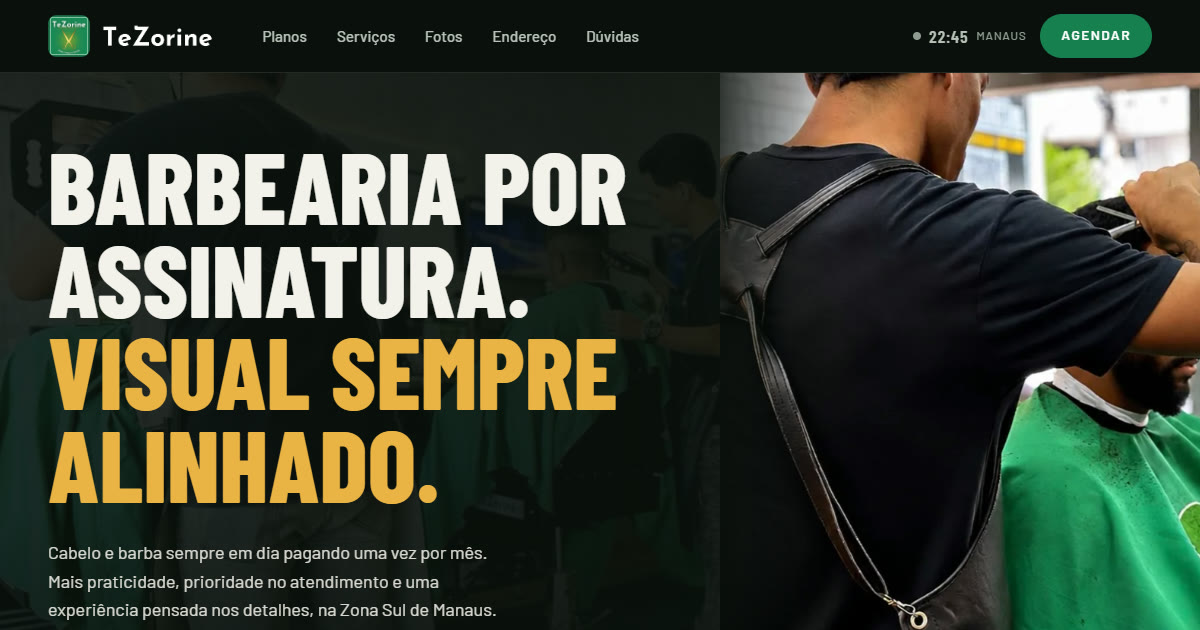
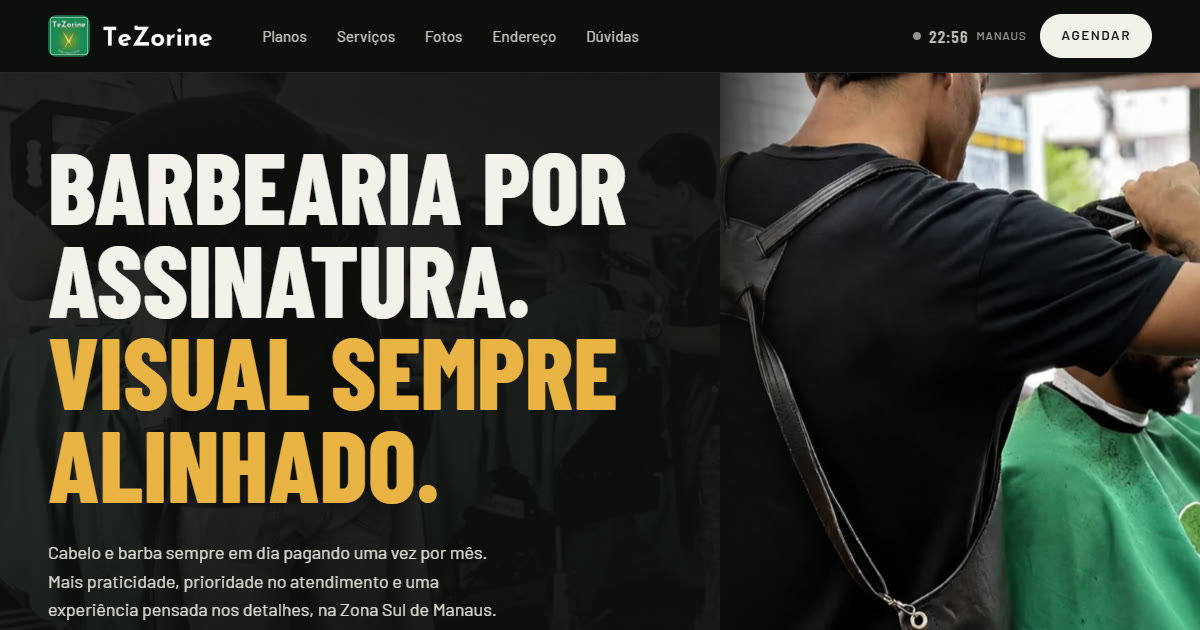
Verde mais discreto: fundo neutro, botões claros, fotos menos saturadas

diff --git a/index.html b/index.html
@@ -6,7 +6,7 @@
 <title>Barbearia Tezorine | Barbearia por assinatura em Manaus</title>
 <meta name="description" content="Barbearia Tezorine, barbearia por assinatura na Zona Sul de Manaus. Planos de corte, barba e corte e barba, sem fidelidade. Av. Silves, 1041, Raiz. Segunda a sábado, das 9h30 às 20h.">
 <meta name="robots" content="noindex">
-<meta name="theme-color" content="#0A100C">
+<meta name="theme-color" content="#0D0E0D">
 <meta property="og:type" content="website">
 <meta property="og:locale" content="pt_BR">
 <meta property="og:title" content="Barbearia Tezorine · Barbearia por assinatura em Manaus">
@@ -28,13 +28,13 @@
    Barlow Condensed = títulos e números (como o "BARBEARIA" dos posts); Barlow = texto e botões. */
 :root{
   color-scheme:dark;
-  --chao:#0A100C;          /* fundo: preto esverdeado */
-  --chao-2:#0F1712;        /* faixa alternada */
-  --placa:#142019;         /* superfícies */
-  --placa-2:#1B2B22;
+  --chao:#0D0E0D;          /* fundo: preto neutro */
+  --chao-2:#141614;        /* faixa alternada */
+  --placa:#1A1C1A;         /* superfícies */
+  --placa-2:#232623;
   --osso:#F3F1EA;          /* texto */
-  --osso-2:#B9C2BA;        /* texto de apoio (9:1) */
-  --osso-3:#8F9A91;        /* rótulos (6:1) */
+  --osso-2:#BDBFB9;        /* texto de apoio (9:1) */
+  --osso-3:#93968F;        /* rótulos (6:1) */
   --linha:rgba(243,241,234,.11);
   --linha-forte:rgba(243,241,234,.26);
   --verde:#17804F;         /* verde da logo, um pouco mais fundo para o texto branco ler (4,9:1) */
@@ -61,10 +61,10 @@
 }
 *,*::before,*::after{box-sizing:border-box}
 [hidden]{display:none!important}
-html{scroll-behavior:smooth;scroll-padding-top:calc(var(--topo) + 12px);-webkit-text-size-adjust:100%;scrollbar-color:#2C3A31 var(--chao)}
+html{scroll-behavior:smooth;scroll-padding-top:calc(var(--topo) + 12px);-webkit-text-size-adjust:100%;scrollbar-color:#2E302E var(--chao)}
 @media (prefers-reduced-motion:reduce){html{scroll-behavior:auto}*,*::before,*::after{animation:none!important;transition:none!important}}
 body{margin:0;background:var(--chao);color:var(--osso);font:400 1.0625rem/1.6 var(--f-texto);-webkit-font-smoothing:antialiased;-webkit-tap-highlight-color:transparent}
-::selection{background:var(--verde-2);color:#fff}
+::selection{background:var(--ouro);color:var(--sobre-ouro)}
 :focus-visible{outline:2px solid var(--ouro);outline-offset:3px}
 img{max-width:100%;height:auto;display:block}
 a{color:inherit}
@@ -89,8 +89,8 @@ figure,blockquote{margin:0}
 .selo-ex::before{content:"";width:6px;height:6px;border-radius:50%;background:currentColor}
 
 /* ---------- botões ---------- */
-.btn{display:inline-flex;align-items:center;justify-content:center;gap:10px;min-height:52px;padding:14px 24px;border:1px solid transparent;border-radius:999px;background:var(--verde);color:var(--sobre-verde);font:600 .84rem/1.15 var(--f-texto);letter-spacing:.12em;text-transform:uppercase;text-decoration:none;text-align:center;cursor:pointer;transition:background-color .2s ease,border-color .2s ease,color .2s ease,transform .2s cubic-bezier(.2,.8,.2,1),translate .35s cubic-bezier(.2,.8,.2,1)}
-.btn:hover{background:var(--verde-2)}
+.btn{display:inline-flex;align-items:center;justify-content:center;gap:10px;min-height:52px;padding:14px 24px;border:1px solid transparent;border-radius:999px;background:var(--osso);color:var(--tinta);font:600 .84rem/1.15 var(--f-texto);letter-spacing:.12em;text-transform:uppercase;text-decoration:none;text-align:center;cursor:pointer;transition:background-color .2s ease,border-color .2s ease,color .2s ease,transform .2s cubic-bezier(.2,.8,.2,1),translate .35s cubic-bezier(.2,.8,.2,1)}
+.btn:hover{background:#FFFFFF}
 .btn:active{transform:translateY(1px)}
 .btn svg{width:18px;height:18px;flex:none;transition:transform .2s cubic-bezier(.2,.8,.2,1)}
 .btn:hover .seta{transform:translateX(3px)}
@@ -112,7 +112,7 @@ figure,blockquote{margin:0}
 /* ---------- aviso da prévia e cabeçalho ---------- */
 .aviso-demo{background:var(--chao);border-bottom:1px solid var(--linha);color:var(--osso-2);font-size:.8rem;line-height:1.5;text-align:center;padding-block:8px}
 .aviso-demo .selo-ex{margin:0 2px;padding-block:1px;font-size:.7rem}
-.topo{position:sticky;top:env(safe-area-inset-top,0px);z-index:50;background:rgba(10,16,12,.94);-webkit-backdrop-filter:blur(10px);backdrop-filter:blur(10px);border-bottom:1px solid var(--linha)}
+.topo{position:sticky;top:env(safe-area-inset-top,0px);z-index:50;background:rgba(13,14,13,.94);-webkit-backdrop-filter:blur(10px);backdrop-filter:blur(10px);border-bottom:1px solid var(--linha)}
 .topo-linha{display:flex;align-items:center;gap:20px;min-height:var(--topo)}
 .marca{display:inline-flex;align-items:center;gap:11px;text-decoration:none}
 .marca .icone{width:38px;height:38px;border-radius:9px}
@@ -146,10 +146,10 @@ figure,blockquote{margin:0}
 /* ---------- capa: foto, título e barra de informações ---------- */
 .capa{position:relative;isolation:isolate;overflow:hidden;display:flex;flex-direction:column;padding-block:clamp(40px,5.5vw,84px) clamp(32px,4vw,64px)}
 .capa-foto{position:relative;order:2;height:min(78vw,440px);margin:32px max(var(--gut),env(safe-area-inset-right,0px)) 0 max(var(--gut),env(safe-area-inset-left,0px));overflow:hidden;border-radius:20px}
-.capa-foto img{width:100%;height:100%;object-fit:cover;object-position:22% 40%;transform:perspective(1400px) rotateY(var(--ry,0deg)) rotateX(var(--rx,0deg)) scale(1.05);transition:transform 1s cubic-bezier(.2,.8,.2,1)}
+.capa-foto img{width:100%;height:100%;object-fit:cover;object-position:22% 40%;filter:saturate(.7);transform:perspective(1400px) rotateY(var(--ry,0deg)) rotateX(var(--rx,0deg)) scale(1.05);transition:transform 1s cubic-bezier(.2,.8,.2,1)}
 .capa-fundo{position:absolute;inset:0;z-index:-2;margin:0;pointer-events:none}
-.capa-fundo img{width:100%;height:100%;object-fit:cover;object-position:50% 45%;opacity:.28}
-.capa-fundo::after{content:"";position:absolute;inset:0;background:linear-gradient(90deg,rgba(10,16,12,.6) 0%,rgba(10,16,12,.76) 50%,rgba(10,16,12,.5) 100%),linear-gradient(0deg,var(--chao) 0%,rgba(10,16,12,0) 45%)}
+.capa-fundo img{width:100%;height:100%;object-fit:cover;object-position:50% 45%;opacity:.28;filter:saturate(.25)}
+.capa-fundo::after{content:"";position:absolute;inset:0;background:linear-gradient(90deg,rgba(13,14,13,.6) 0%,rgba(13,14,13,.76) 50%,rgba(13,14,13,.5) 100%),linear-gradient(0deg,var(--chao) 0%,rgba(13,14,13,0) 45%)}
 .capa-grade{display:grid;gap:24px}
 .capa-grade>*{min-width:0}
 .capa-tit{font-size:clamp(3rem,8.4vw,6.6rem);line-height:.92;font-weight:800;letter-spacing:0;text-transform:uppercase}
@@ -168,6 +168,8 @@ figure,blockquote{margin:0}
 a.info-campo:hover b{text-decoration:underline;text-decoration-thickness:1px;text-underline-offset:5px}
 .info-campo:nth-last-child(2){border-bottom:0}
 .info-barra .btn{min-height:58px;margin-top:6px;border-radius:12px}
+.info-barra .btn,.comanda .btn{background:var(--tinta);color:#fff}
+.info-barra .btn:hover,.comanda .btn:hover{background:#000}
 .capa-provas{display:flex;flex-wrap:wrap;align-items:center;gap:10px 26px;color:var(--osso-2);font-size:.95rem}
 .capa-provas li{display:flex;align-items:center;gap:8px}
 .capa-provas li svg{width:17px;height:17px;color:var(--verde-tx)}
@@ -181,7 +183,7 @@ a.info-campo:hover b{text-decoration:underline;text-decoration-thickness:1px;tex
 @media (min-width:1100px){
   .capa{display:block}
   .capa-foto{position:absolute;z-index:-1;top:0;right:0;bottom:0;width:40vw;height:auto;margin:0;border-radius:0}
-  .capa-foto::after{content:"";position:absolute;inset:0;background:linear-gradient(90deg,rgba(10,16,12,.8) 0,rgba(10,16,12,0) 24%)}
+  .capa-foto::after{content:"";position:absolute;inset:0;background:linear-gradient(90deg,rgba(13,14,13,.8) 0,rgba(13,14,13,0) 24%)}
   .capa-grade{grid-template-columns:repeat(12,minmax(0,1fr));column-gap:24px;row-gap:28px}
   .capa-tit{grid-column:1/span 7}
   .capa-lead{grid-column:1/span 6}
@@ -193,7 +195,7 @@ a.info-campo:hover b{text-decoration:underline;text-decoration-thickness:1px;tex
 /* ---------- planos: cartões verde-escuro com dourado, como no post da assinatura ---------- */
 .planos{position:relative;isolation:isolate;overflow:hidden}
 .carteiras{display:grid;gap:16px}
-.carteira{position:relative;display:grid;gap:18px;align-content:start;padding:24px 22px 24px;border:1px solid rgba(235,179,69,.22);border-radius:20px;background:linear-gradient(180deg,#123623 0%,var(--verde-cartao) 100%);box-shadow:0 40px 70px -40px rgba(0,0,0,.95);transform:perspective(900px) translateY(var(--ty,0px)) rotateX(var(--rx,0deg)) rotateY(var(--ry,0deg));transition:transform .5s cubic-bezier(.2,.8,.2,1)}
+.carteira{position:relative;display:grid;gap:18px;align-content:start;padding:24px 22px 24px;border:1px solid var(--linha-forte);border-radius:20px;background:linear-gradient(180deg,#1D201D 0%,#151715 100%);box-shadow:0 40px 70px -40px rgba(0,0,0,.95);transform:perspective(900px) translateY(var(--ty,0px)) rotateX(var(--rx,0deg)) rotateY(var(--ry,0deg));transition:transform .5s cubic-bezier(.2,.8,.2,1)}
 .carteira-ico{width:46px;height:46px;color:var(--ouro)}
 .carteira h3{font-size:clamp(1.8rem,2.4vw,2.2rem);text-transform:uppercase}
 .carteira h3 small{display:block;margin-bottom:4px;color:var(--osso-2);font:600 .76rem/1 var(--f-texto);letter-spacing:.16em}
@@ -237,7 +239,7 @@ a.info-campo:hover b{text-decoration:underline;text-decoration-thickness:1px;tex
 .segmentos{display:grid;grid-auto-flow:column;grid-auto-columns:1fr;gap:4px;padding:4px;border-radius:14px;background:rgba(14,22,17,.07)}
 .opcao{min-height:44px;padding:8px 10px;border:0;border-radius:10px;background:transparent;color:var(--tinta);font-size:.92rem;font-weight:600;line-height:1.2;cursor:pointer;transition:background-color .2s ease,color .2s ease}
 .opcao:hover{background:rgba(14,22,17,.07)}
-.opcao[aria-checked="true"]{background:var(--verde);color:#fff}
+.opcao[aria-checked="true"]{background:var(--tinta);color:#fff}
 .opcao:focus-visible{outline-color:var(--tinta)}
 .calc-dica{color:var(--tinta-2);font-size:.86rem}
 .calc-res{display:grid;gap:20px;align-content:start;padding-top:22px;border-top:1px dashed rgba(14,22,17,.3);min-width:0}
@@ -272,22 +274,15 @@ a.info-campo:hover b{text-decoration:underline;text-decoration-thickness:1px;tex
 @media (min-width:1120px){.cats{grid-template-columns:repeat(4,minmax(0,1fr));gap:16px}}
 
 /* ---------- campos verdes (cor da logo): redefinem os tokens localmente ---------- */
-.secao--verde{--chao:var(--verde-campo);--chao-2:#126641;--placa:#105F3C;--placa-2:#0D5233;--osso:#FFFFFF;--osso-2:#E0EFE6;--osso-3:#D2E6DA;--linha:rgba(255,255,255,.18);--linha-forte:rgba(255,255,255,.42);--verde-tx:#FFFFFF;background:var(--verde-campo);color:#fff}
-.secao--verde .selo-ex{border-color:#FFE3A3;color:#FFE3A3}
-.secao--verde ::selection{background:#fff;color:var(--verde-campo)}
-.secao--verde .btn{background:#fff;color:var(--verde-campo)}
-.secao--verde .btn:hover{background:#EAF6EF}
-.secao--verde .btn--linha{background:transparent;color:#fff;border-color:rgba(255,255,255,.6)}
-.secao--verde .btn--linha:hover{background:rgba(255,255,255,.1);border-color:#fff}
 
 /* ---------- extras de graça (exemplo): faixa baixa, três itens lado a lado ---------- */
 .extras{padding-block:clamp(40px,4vw,56px)}
 .extras .cab{gap:8px;margin-bottom:clamp(18px,2vw,26px)}
 .extras-grade{display:grid;gap:8px}
 .extra{display:grid;grid-template-columns:44px minmax(0,1fr);column-gap:14px;row-gap:3px;align-content:center;padding:14px 16px;border:1px solid var(--linha);border-radius:16px;background:var(--placa)}
-.extra-ico{grid-row:1/4;align-self:center;display:grid;place-items:center;width:44px;height:44px;border-radius:50%;background:var(--chao-2);border:1px solid var(--linha-forte);color:#FFE3A3}
+.extra-ico{grid-row:1/4;align-self:center;display:grid;place-items:center;width:44px;height:44px;border-radius:50%;background:var(--chao-2);border:1px solid var(--linha-forte);color:var(--ouro)}
 .extra-ico svg{width:22px;height:22px}
-.extra-gratis{color:#FFE3A3;font:600 .74rem/1 var(--f-texto);letter-spacing:.08em;text-transform:uppercase}
+.extra-gratis{color:var(--ouro);font:600 .74rem/1 var(--f-texto);letter-spacing:.08em;text-transform:uppercase}
 .extra h3{font-size:1.3rem;text-transform:uppercase;letter-spacing:.01em}
 .extra p{color:var(--osso-2);font-size:.92rem;line-height:1.4}
 @media (min-width:700px){
@@ -308,7 +303,7 @@ a.info-campo:hover b{text-decoration:underline;text-decoration-thickness:1px;tex
 .mosaico{display:grid;grid-template-columns:repeat(2,minmax(0,1fr));gap:28px 12px;align-items:start}
 .mosaico figure{min-width:0}
 .mosaico button{display:block;width:100%;padding:0;border:0;border-radius:16px;background:var(--placa);overflow:hidden;cursor:zoom-in;transition:transform 1.1s cubic-bezier(.2,.8,.2,1)}
-.mosaico img{width:100%;aspect-ratio:4/5;object-fit:cover;transition:transform .7s cubic-bezier(.2,.8,.2,1)}
+.mosaico img{width:100%;aspect-ratio:4/5;object-fit:cover;filter:saturate(.72);transition:transform .7s cubic-bezier(.2,.8,.2,1)}
 .mosaico button:hover img{transform:scale(1.035)}
 .mosaico figcaption{display:grid;gap:2px;padding-top:12px;font-size:.95rem;line-height:1.35}
 .mosaico figcaption b{font:700 1.15rem/1.1 var(--f-display);text-transform:uppercase;letter-spacing:.02em}
@@ -337,10 +332,9 @@ a.info-campo:hover b{text-decoration:underline;text-decoration-thickness:1px;tex
 .pg-hora{padding-right:18px;border-right:1px solid var(--linha-forte);font:700 1.7rem/1 var(--f-display);font-variant-numeric:tabular-nums;color:var(--osso)}
 .passo-gar h3{font-size:1.25rem;text-transform:uppercase;letter-spacing:.02em}
 .passo-gar p{margin-top:3px;color:var(--osso-2);font-size:.92rem;line-height:1.4}
-.passo-gar--gratis{border-color:var(--verde-campo);background:var(--verde-campo);color:#fff}
-.passo-gar--gratis .pg-hora{color:#fff;border-color:rgba(255,255,255,.35)}
-.passo-gar--gratis p{color:#E0EFE6}
-.passo-gar:not(:last-child)::after{content:"";position:absolute;left:44px;bottom:-11px;z-index:1;width:9px;height:9px;border-right:1.5px solid var(--osso-3);border-bottom:1.5px solid var(--osso-3);background:var(--chao-2);transform:rotate(45deg)}
+.passo-gar--gratis{border-color:rgba(61,196,137,.55);background:var(--placa)}
+.passo-gar--gratis .pg-hora{color:var(--verde-tx)}
+.passo-gar:not(:last-child)::after{content:"";position:absolute;left:44px;bottom:-11px;z-index:1;width:9px;height:9px;border-right:1.5px solid var(--osso-3);border-bottom:1.5px solid var(--osso-3);background:var(--chao);transform:rotate(45deg)}
 @media (min-width:760px){
   .passos-gar{grid-template-columns:repeat(3,minmax(0,1fr));gap:16px}
   .passo-gar:not(:last-child)::after{left:auto;right:-14px;bottom:auto;top:50%;margin-top:-4.5px;transform:rotate(-45deg)}
@@ -422,22 +416,18 @@ a.info-campo:hover b{text-decoration:underline;text-decoration-thickness:1px;tex
 .faq summary i{position:relative;flex:none;width:32px;height:32px;border:1px solid var(--linha-forte);border-radius:var(--raio);transition:transform .25s cubic-bezier(.2,.8,.2,1),background-color .2s ease,border-color .2s ease}
 .faq summary i::before,.faq summary i::after{content:"";position:absolute;left:50%;top:50%;width:11px;height:1.5px;background:currentColor;transform:translate(-50%,-50%)}
 .faq summary i::after{transform:translate(-50%,-50%) rotate(90deg)}
-.faq details[open] summary i{transform:rotate(45deg);background:var(--verde);border-color:var(--verde);color:#fff}
+.faq details[open] summary i{transform:rotate(45deg);background:var(--osso);border-color:var(--osso);color:var(--tinta)}
 .faq details p{max-width:62ch;padding:0 44px 22px 0;color:var(--osso-2)}
 @media (min-width:960px){.faq-grade{grid-template-columns:minmax(0,5fr) minmax(0,7fr);gap:64px}.faq-grade .cab{position:sticky;top:calc(var(--topo) + 36px);align-self:start}}
 
 /* ---------- fechamento: campo verde com a logo ---------- */
-.final{position:relative;isolation:isolate;overflow:hidden;background:radial-gradient(120% 90% at 85% 50%,var(--verde-campo) 0%,#115F3B 60%,#0D4C2F 100%);color:#fff}
+.final{position:relative;isolation:isolate;overflow:hidden;background:var(--chao-2);border-top:1px solid var(--linha);color:var(--osso)}
 .final-grade{display:grid;gap:40px;align-items:center;padding-block:clamp(80px,11vw,150px)}
 .final-grade>*{min-width:0}
 .final h2{font-size:clamp(2.8rem,6.6vw,5.4rem);line-height:.92;text-transform:uppercase}
-.final h2 span{display:block;color:#FFE3A3}
-.final-txt>p{margin-top:22px;max-width:44ch;color:#E0EFE6;font-size:1.08rem}
+.final h2 span{display:block;color:var(--ouro)}
+.final-txt>p{margin-top:22px;max-width:44ch;color:var(--osso-2);font-size:1.08rem}
 .final .ctas{margin-top:30px}
-.final .btn{background:#fff;color:var(--verde-campo)}
-.final .btn:hover{background:#EAF6EF}
-.final .link{text-decoration-color:rgba(255,255,255,.5)}
-.final .link:hover{text-decoration-color:#fff}
 .final-logo{justify-self:center;width:min(320px,62vw);border-radius:22%;box-shadow:0 50px 90px -40px rgba(0,0,0,.7);transform:rotate(-4deg)}
 @media (min-width:1000px){.final-grade{grid-template-columns:minmax(0,7fr) minmax(0,5fr);column-gap:64px}.final-logo{width:360px}}
 
@@ -451,6 +441,7 @@ a.info-campo:hover b{text-decoration:underline;text-decoration-thickness:1px;tex
 .rodape a:hover{color:var(--osso)}
 .rodape .marca{margin-bottom:16px}
 .rodape li b{color:var(--osso);font-weight:600}
+.rodape li{overflow-wrap:anywhere}
 .sociais{display:flex;gap:8px;margin-top:18px}
 .rodape-fim{display:flex;flex-wrap:wrap;justify-content:space-between;gap:6px 24px;margin-top:40px;padding-top:20px;border-top:1px solid var(--linha);color:var(--osso-3);font-size:.84rem}
 @media (min-width:1000px){.rodape-grade{grid-template-columns:1.4fr 1fr 1fr 1fr}.rodape-grade>:first-child,.rodape-grade>.largo{grid-column:auto}}
@@ -460,16 +451,15 @@ a.info-campo:hover b{text-decoration:underline;text-decoration-thickness:1px;tex
 .flutua>*{pointer-events:auto}
 .flutua.oculto{transform:translateY(140%);opacity:0}
 .flutua.oculto>*{pointer-events:none}
-.fab{flex:1;display:inline-flex;align-items:center;justify-content:center;gap:10px;min-height:54px;padding:12px 22px;border:0;border-radius:999px;background:var(--verde);color:#fff;font:600 .84rem/1.15 var(--f-texto);letter-spacing:.12em;text-transform:uppercase;text-decoration:none;cursor:pointer;box-shadow:0 20px 44px -18px rgba(0,0,0,.95);transition:background-color .2s ease,color .2s ease,translate .35s cubic-bezier(.2,.8,.2,1)}
-.fab:hover{background:var(--verde-2)}
+.fab{flex:1;display:inline-flex;align-items:center;justify-content:center;gap:10px;min-height:54px;padding:12px 22px;border:0;border-radius:999px;background:var(--osso);color:var(--tinta);font:600 .84rem/1.15 var(--f-texto);letter-spacing:.12em;text-transform:uppercase;text-decoration:none;cursor:pointer;box-shadow:0 20px 44px -18px rgba(0,0,0,.95);transition:background-color .2s ease,color .2s ease,translate .35s cubic-bezier(.2,.8,.2,1)}
+.fab:hover{background:#FFFFFF}
 .fab svg{width:20px;height:20px}
-.flutua.sobre-verde .fab{background:#fff;color:var(--verde-campo)}
-.flutua .quadrado{width:54px;height:54px;border-radius:999px;background:rgba(16,24,19,.96);box-shadow:0 20px 44px -18px rgba(0,0,0,.95)}
+.flutua .quadrado{width:54px;height:54px;border-radius:999px;background:rgba(22,24,22,.96);box-shadow:0 20px 44px -18px rgba(0,0,0,.95)}
 body{padding-bottom:calc(76px + env(safe-area-inset-bottom,0px))}
 @media (min-width:760px){.flutua{left:auto;right:max(24px,env(safe-area-inset-right,0px));bottom:max(24px,env(safe-area-inset-bottom,0px));padding:0}.fab{flex:none}body{padding-bottom:0}}
 
 /* ---------- foto ampliada ---------- */
-.lightbox{position:fixed;inset:0;z-index:90;display:grid;grid-template-rows:auto minmax(0,1fr) auto;background:rgba(6,10,8,.97);padding:calc(10px + env(safe-area-inset-top,0px)) max(var(--gut),env(safe-area-inset-right,0px)) calc(14px + env(safe-area-inset-bottom,0px)) max(var(--gut),env(safe-area-inset-left,0px))}
+.lightbox{position:fixed;inset:0;z-index:90;display:grid;grid-template-rows:auto minmax(0,1fr) auto;background:rgba(9,9,9,.97);padding:calc(10px + env(safe-area-inset-top,0px)) max(var(--gut),env(safe-area-inset-right,0px)) calc(14px + env(safe-area-inset-bottom,0px)) max(var(--gut),env(safe-area-inset-left,0px))}
 .lb-topo{display:flex;align-items:center;justify-content:space-between;min-height:56px;color:var(--osso-3);font:600 1rem/1 var(--f-display);letter-spacing:.06em}
 .lb-img{display:grid;place-items:center;min-height:0}
 .lb-img img{max-width:100%;max-height:100%;object-fit:contain}
@@ -634,7 +624,7 @@ body{padding-bottom:calc(76px + env(safe-area-inset-bottom,0px))}
   </section>
 
   <!-- EXTRAS (exemplo) -->
-  <section class="secao secao--verde extras" id="extras" aria-labelledby="exTit" data-exemplo>
+  <section class="secao extras" id="extras" aria-labelledby="exTit" data-exemplo>
     <div class="wrap">
       <div class="cab">
         <h2 class="h2" id="exTit">Extras de graça</h2>
@@ -664,7 +654,7 @@ body{padding-bottom:calc(76px + env(safe-area-inset-bottom,0px))}
   </section>
 
   <!-- GALERIA: fotos do Instagram @barbeariatezorine -->
-  <section class="secao" id="galeria" aria-labelledby="galTit">
+  <section class="secao secao--2" id="galeria" aria-labelledby="galTit">
     <div class="wrap">
       <div class="cab"><h2 class="h2" id="galTit">Por dentro da Tezorine</h2><p class="lead">Ambiente premium e atendimento de alto nível, na Av. Silves. Toque numa foto para ampliar.</p></div>
       <div class="mosaico" id="galeriaLista"></div>
@@ -672,7 +662,7 @@ body{padding-bottom:calc(76px + env(safe-area-inset-bottom,0px))}
   </section>
 
   <!-- GARANTIA DE PONTUALIDADE (exemplo) -->
-  <section class="secao secao--2 garantia" id="pontualidade" aria-labelledby="garTit" data-exemplo>
+  <section class="secao garantia" id="pontualidade" aria-labelledby="garTit" data-exemplo>
     <div class="wrap">
       <div class="cab">
         <h2 class="h2" id="garTit">Atrasou mais de 10 minutos? <span class="destaque">É por nossa conta.</span></h2>
@@ -692,7 +682,7 @@ body{padding-bottom:calc(76px + env(safe-area-inset-bottom,0px))}
   </section>
 
   <!-- EQUIPE (exemplo: nomes e fotos ilustrativos) -->
-  <section class="secao" id="equipe" aria-labelledby="eqTit" data-exemplo>
+  <section class="secao secao--2" id="equipe" aria-labelledby="eqTit" data-exemplo>
     <div class="wrap">
       <div class="cab">
         <h2 class="h2" id="eqTit">Quem vai cuidar do seu visual</h2>
@@ -704,7 +694,7 @@ body{padding-bottom:calc(76px + env(safe-area-inset-bottom,0px))}
   </section>
 
   <!-- AVALIAÇÕES (exemplo) -->
-  <section class="secao secao--2" id="avaliacoes" aria-labelledby="avTit" data-exemplo>
+  <section class="secao" id="avaliacoes" aria-labelledby="avTit" data-exemplo>
     <div class="wrap">
       <div class="cab">
         <h2 class="h2" id="avTit">O que os clientes dizem</h2>
@@ -731,7 +721,7 @@ body{padding-bottom:calc(76px + env(safe-area-inset-bottom,0px))}
   </section>
 
   <!-- ENDEREÇO: dados reais (posts de 15/04 e 16/09/2026 e bio) -->
-  <section class="secao" id="endereco" aria-labelledby="unTit">
+  <section class="secao secao--2" id="endereco" aria-labelledby="unTit">
     <div class="wrap">
       <div class="cab">
         <h2 class="h2" id="unTit">Na Zona Sul de Manaus</h2>
@@ -762,7 +752,7 @@ body{padding-bottom:calc(76px + env(safe-area-inset-bottom,0px))}
   </section>
 
   <!-- DÚVIDAS: respostas reais; as marcadas são de exemplo -->
-  <section class="secao secao--2" id="duvidas" aria-labelledby="dvTit">
+  <section class="secao" id="duvidas" aria-labelledby="dvTit">
     <div class="wrap faq-grade">
       <div class="cab">
         <h2 class="h2" id="dvTit">Perguntas frequentes</h2>
@@ -1103,14 +1093,11 @@ window.BARBEARIA = {
     io.observe(dest);
   }
 
-  /* ---------- botão flutuante: aparece depois da capa; fica branco sobre o verde ---------- */
+  /* ---------- botão flutuante: aparece depois da capa ---------- */
   let capaVisivel = true;
   function atualizarFlutua() { $('#flutua').classList.toggle('oculto', capaVisivel || !lb.hidden); }
   if ('IntersectionObserver' in window) {
     new IntersectionObserver(ents => { capaVisivel = ents[0].isIntersecting; atualizarFlutua(); }, { rootMargin: '0px 0px -35% 0px' }).observe($('.capa'));
-    const verdes = new Set();
-    const ioVerde = new IntersectionObserver(ents => { ents.forEach(en => en.isIntersecting ? verdes.add(en.target) : verdes.delete(en.target)); $('#flutua').classList.toggle('sobre-verde', verdes.size > 0); }, { rootMargin: '-86% 0px 0px 0px' });
-    $$('.secao--verde, .final').forEach(s => ioVerde.observe(s));
   } else { capaVisivel = false; }
 
   /* ---------- 3D discreto: foto da capa e cartões dos planos acompanham o ponteiro ---------- */
